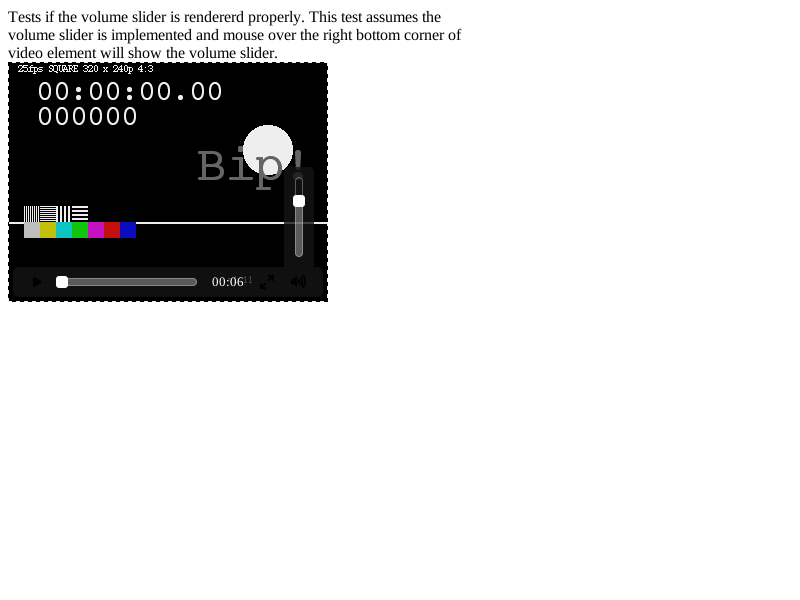
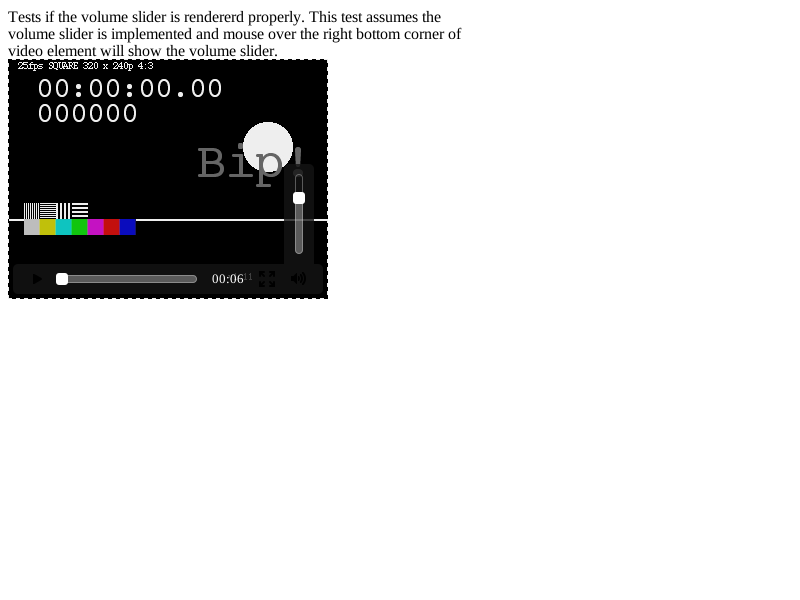
[GTK] Improve JavaScript multimedia controls https://bugs.webkit.org/show_bug.cgi?id=129044
Reviewed by Jer Noble.

Source/WebCore:

After webkit.org/b/123097 a follow up was needed to improve
accessibily and some other cosmetic problems, like cleaner CSS and
new missing baselines.

No new tests because of no new functionality.

* Modules/mediacontrols/mediaControlsApple.js:
Added hiding class name.
* Modules/mediacontrols/mediaControlsGtk.js:
(ControllerGtk.prototype.createControls): Set remaining time as
hidden by default and turned volumebox hidden into hiding.
(ControllerGtk.prototype.updateTime): Simplified the hiding and
showing by removing the show class and using hidden only.
(ControllerGtk.prototype.handleMuteButtonMouseOver):
(ControllerGtk.prototype.handleVolumeBoxMouseOut): Turned hidden
into hiding.
(ControllerGtk.prototype.updateReadyState): Changed coding style
and added down class for the panel too.
(ControllerGtk.prototype.updatePlaying): Change for coding style
coherence.
(ControllerGtk.prototype.handleCaptionButtonClicked): Call
handleCaptionButtonShowMenu.
(ControllerGtk.prototype.handleCaptionButtonMouseOver): Call
handleCaptionButtonShowMenu.
(ControllerGtk.prototype.handleCaptionButtonShowMenu): Created
with the former behavior of handleCaptionButtonMouseOver.
* css/mediaControlsGtk.css:
(.hidden): Set display none for all objects with hidden class.
(audio::-webkit-media-controls-panel *:focus):
(audio::-webkit-media-controls-panel.down *:focus): Added gradient
for the active and focus status.
[…]

diff --git a/Source/WebCore/css/mediaControlsGtk.css b/Source/WebCore/css/mediaControlsGtk.css
@@ -27,6 +27,22 @@
 
 /* These are based on the Chromium media controls */
 
+.hidden {
+    display: none !important;
+}
+
+video::-webkit-media-controls-panel *:active,
+video::-webkit-media-controls-panel *:focus,
+audio::-webkit-media-controls-panel *:active,
+audio::-webkit-media-controls-panel *:focus {
+    background-image: linear-gradient(rgba(0, 0, 0, .05), rgba(255, 255, 255, .05)) !important;
+}
+
+audio::-webkit-media-controls-panel.down *:active,
+audio::-webkit-media-controls-panel.down *:focus {
+    background-image: linear-gradient(rgba(255, 255, 255, .05), rgba(0, 0, 0, .05)) !important;
+}
+
 body:-webkit-full-page-media {
     background-color: rgb(0, 0, 0);
 }
@@ -86,6 +102,9 @@ video::-webkit-media-controls-panel {
     opacity: 0;
 }
 
+audio::-webkit-media-controls-panel,
+video:-webkit-full-page-media::-webkit-media-controls-panel.no-video,
+video::-webkit-media-controls-panel:hover,
 video::-webkit-media-controls-panel.show,
 video::-webkit-media-controls-panel.paused {
     opacity: 1;
@@ -99,11 +118,6 @@ audio::-webkit-media-controls-panel div.mute-box {
     width: 30px;
     height: 30px;
     margin: 0 9px 0 -7px;
-}
-
-video::-webkit-media-controls-panel div.mute-box.hidden,
-audio::-webkit-media-controls-panel div.mute-box.hidden {
-    display: none;
 }
 
 audio::-webkit-media-controls-mute-button, video::-webkit-media-controls-mute-button {
@@ -136,6 +150,7 @@ audio::-webkit-media-controls-time-remaining-display, video::-webkit-media-contr
     -webkit-appearance: media-current-time-display;
     -webkit-user-select: none;
     -webkit-flex: none;
+    display: block;
     border: none;
     cursor: default;
 
@@ -157,27 +172,6 @@ audio::-webkit-media-controls-time-remaining-display, video::-webkit-media-contr
     text-decoration: none;
 }
 
-audio::-webkit-media-controls-current-time-display, video::-webkit-media-controls-current-time-display {
-    display: block;
-}
-
-audio::-webkit-media-controls-time-remaining-display,
-video::-webkit-media-controls-time-remaining-display {
-    display: none;
-}
-
-audio::-webkit-media-controls-time-remaining-display.show,
-video::-webkit-media-controls-time-remaining-display.show {
-    display: block;
-}
-
-audio::-webkit-media-controls-current-time-display.hidden,
-video::-webkit-media-controls-current-time-display.hidden,
-audio::-webkit-media-controls-time-remaining-display.hidden,
-video::-webkit-media-controls-time-remaining-display.hidden {
-    display: none;
-}
-
 audio::-webkit-media-controls-timeline, video::-webkit-media-controls-timeline {
     -webkit-appearance: media-slider;
     display: -webkit-flex;
@@ -194,6 +188,7 @@ audio::-webkit-media-controls-timeline, video::-webkit-media-controls-timeline {
 
 audio::-webkit-media-controls-volume-slider-container, video::-webkit-media-controls-volume-slider-container {
     -webkit-appearance: media-volume-slider-container;
+    display: -webkit-flex;
     overflow: hidden;
     position: absolute;
     padding: 0;
@@ -207,8 +202,8 @@ audio::-webkit-media-controls-volume-slider-container, video::-webkit-media-cont
     transition: height 0.10s linear;
 }
 
-audio::-webkit-media-controls-volume-slider-container.hidden,
-video::-webkit-media-controls-volume-slider-container.hidden {
+audio::-webkit-media-controls-volume-slider-container.hiding,
+video::-webkit-media-controls-volume-slider-container.hiding {
     height: 0;
 }
 
@@ -219,8 +214,8 @@ video::-webkit-media-controls-volume-slider-container.down {
     transition: height 0.10s linear, bottom 0.10s linear;
 }
 
-audio::-webkit-media-controls-panel .hidden.down,
-video::-webkit-media-controls-panel .hidden.down {
+audio::-webkit-media-controls-panel .hiding.down,
+video::-webkit-media-controls-panel .hiding.down {
     bottom: 0;
 }
 
@@ -353,9 +348,4 @@ audio::-webkit-media-controls-fullscreen-button, video::-webkit-media-controls-f
     line-height: 30px;
     margin: 0 9px 0 -7px;
     outline: none;
-}
-
-video::-webkit-media-controls-panel button.hidden,
-audio::-webkit-media-controls-panel button.hidden {
-    display: none;
 }

diff --git a/Source/WebCore/Modules/mediacontrols/mediaControlsGtk.js b/Source/WebCore/Modules/mediacontrols/mediaControlsGtk.js
@@ -24,9 +24,10 @@ ControllerGtk.prototype = {
         Controller.prototype.createControls.apply(this);
 
         this.controls.currentTime.classList.add(this.ClassNames.hidden);
+        this.controls.remainingTime.classList.add(this.ClassNames.hidden);
 
         this.controls.volumeBox.setAttribute('pseudo', '-webkit-media-controls-volume-slider-container');
-        this.controls.volumeBox.classList.add(this.ClassNames.hidden);
+        this.controls.volumeBox.classList.add(this.ClassNames.hiding);
 
         this.listenFor(this.controls.muteBox, 'mouseout', this.handleVolumeBoxMouseOut);
         this.listenFor(this.controls.muteButton, 'mouseover', this.handleMuteButtonMouseOver);
@@ -65,12 +66,13 @@ ControllerGtk.prototype = {
 
         this.controls.currentTime.innerText = this.formatTime(currentTime);
         this.controls.timeline.value = currentTime;
-        if (duration === Infinity || duration === NaN) {
-            this.controls.remainingTime.classList.remove(this.ClassNames.show);
-        } else {
+        if (duration === Infinity || duration === NaN)
+            this.controls.remainingTime.classList.add(this.ClassNames.hidden);
+        else {
             this.controls.currentTime.innerText += " / " + this.formatTime(duration);
             this.controls.remainingTime.innerText = this.formatTime(duration);
-            this.controls.remainingTime.classList.add(this.ClassNames.show);
+            if (this.controls.currentTime.classList.contains(this.ClassNames.hidden))
+                this.controls.remainingTime.classList.remove(this.ClassNames.hidden);
         }
 
         if (currentTime > 0)
@@ -96,12 +98,12 @@ ControllerGtk.prototype = {
 
     handleMuteButtonMouseOver: function(event)
     {
-        this.controls.volumeBox.classList.remove(this.ClassNames.hidden);
+        this.controls.volumeBox.classList.remove(this.ClassNames.hiding);
     },
 
     handleVolumeBoxMouseOut: function(event)
     {
-        this.controls.volumeBox.classList.add(this.ClassNames.hidden);
+        this.controls.volumeBox.classList.add(this.ClassNames.hiding);
     },
 
     addControls: function()
@@ -111,15 +113,17 @@ ControllerGtk.prototype = {
 
     updateReadyState: function()
     {
-        if (this.host.supportsFullscreen && this.video.videoTracks.length) {
+        if (this.host.supportsFullscreen && this.video.videoTracks.length)
             this.controls.fullscreenButton.classList.remove(this.ClassNames.hidden);
-        } else {
-            this.controls.fullscreenButton.classList.add(this.ClassNames.hidden);
-        }
-        if (this.video.offsetTop + this.controls.enclosure.offsetTop < 105)
-            this.controls.volumeBox.classList.add(this.ClassNames.down);
         else
+            this.controls.fullscreenButton.classList.add(this.ClassNames.hidden);
+        if (this.video.offsetTop + this.controls.enclosure.offsetTop < 105) {
+            this.controls.volumeBox.classList.add(this.ClassNames.down);
+            this.controls.panel.classList.add(this.ClassNames.down);
+        } else {
             this.controls.volumeBox.classList.remove(this.ClassNames.down);
+            this.controls.panel.classList.remove(this.ClassNames.down);
+        }
         this.updateVolume();
     },
 
@@ -135,14 +139,13 @@ ControllerGtk.prototype = {
     updatePlaying: function()
     {
         Controller.prototype.updatePlaying.apply(this, arguments);
-        if (!this.canPlay()) {
+        if (!this.canPlay())
             this.showControls();
-        }
     },
 
     handleCaptionButtonClicked: function(event)
     {
-        // Handled with mouseover and mouseout.
+        this.handleCaptionButtonShowMenu(event)
     },
 
     buildCaptionMenu: function()
@@ -185,6 +188,11 @@ ControllerGtk.prototype = {
     },
 
     handleCaptionButtonMouseOver: function(event)
+    {
+        this.handleCaptionButtonShowMenu(event);
+    },
+
+    handleCaptionButtonShowMenu: function(event)
     {
         if (!this.captionMenu)
             this.buildCaptionMenu();

diff --git a/LayoutTests/platform/gtk/accessibility/media-controls-panel-title.html b/LayoutTests/platform/gtk/accessibility/media-controls-panel-title.html
@@ -23,7 +23,7 @@ if (window.accessibilityController) {
     shouldBe("element.title", "'AXTitle: '");
     element = element.childAtIndex(0);
     shouldBe("element.role", "'AXRole: AXToolbar'");
-    shouldBe("element.title", "'AXTitle: video playback'");
+    shouldBe("element.title", "'AXTitle: Video Playback'");
 
     // Audio element.
     element = mainBlock.childAtIndex(1);
@@ -31,7 +31,7 @@ if (window.accessibilityController) {
     shouldBe("element.title", "'AXTitle: '");
     element = element.childAtIndex(0);
     shouldBe("element.role", "'AXRole: AXToolbar'");
-    shouldBe("element.title", "'AXTitle: audio playback'");
+    shouldBe("element.title", "'AXTitle: Audio Playback'");
 }
 
 </script>

diff --git a/LayoutTests/media/controls-without-preload.html b/LayoutTests/media/controls-without-preload.html
@@ -9,6 +9,7 @@
 
             function start()
             {
+                internals.suspendAnimations();
                 setSrcByTagName("video", findMediaFile("video", "content/test"));
                 video = document.getElementsByTagName('video')[0];
                 video.load();

diff --git a/Source/WebCore/Modules/mediacontrols/mediaControlsApple.js b/Source/WebCore/Modules/mediacontrols/mediaControlsApple.js
@@ -69,6 +69,7 @@ Controller.prototype = {
     ClassNames: {
         exit: 'exit',
         hidden: 'hidden',
+        hiding: 'hiding',
         list: 'list',
         muteBox: 'mute-box',
         muted: 'muted',

diff --git a/Source/WebCore/platform/gtk/RenderThemeGtk.cpp b/Source/WebCore/platform/gtk/RenderThemeGtk.cpp
@@ -513,7 +513,7 @@ bool RenderThemeGtk::paintMediaButton(RenderObject* renderObject, GraphicsContex
     GRefPtr<GdkPixbuf> icon = getStockSymbolicIconForWidgetType(GTK_TYPE_CONTAINER, symbolicIconName, fallbackStockIconName,
         gtkTextDirection(renderObject->style().direction()), gtkIconState(this, renderObject), iconRect.width());
     paintGdkPixbuf(context, icon.get(), iconRect);
-    return false;
+    return true;
 }
 
 bool RenderThemeGtk::hasOwnDisabledStateHandlingFor(ControlPart part) const
